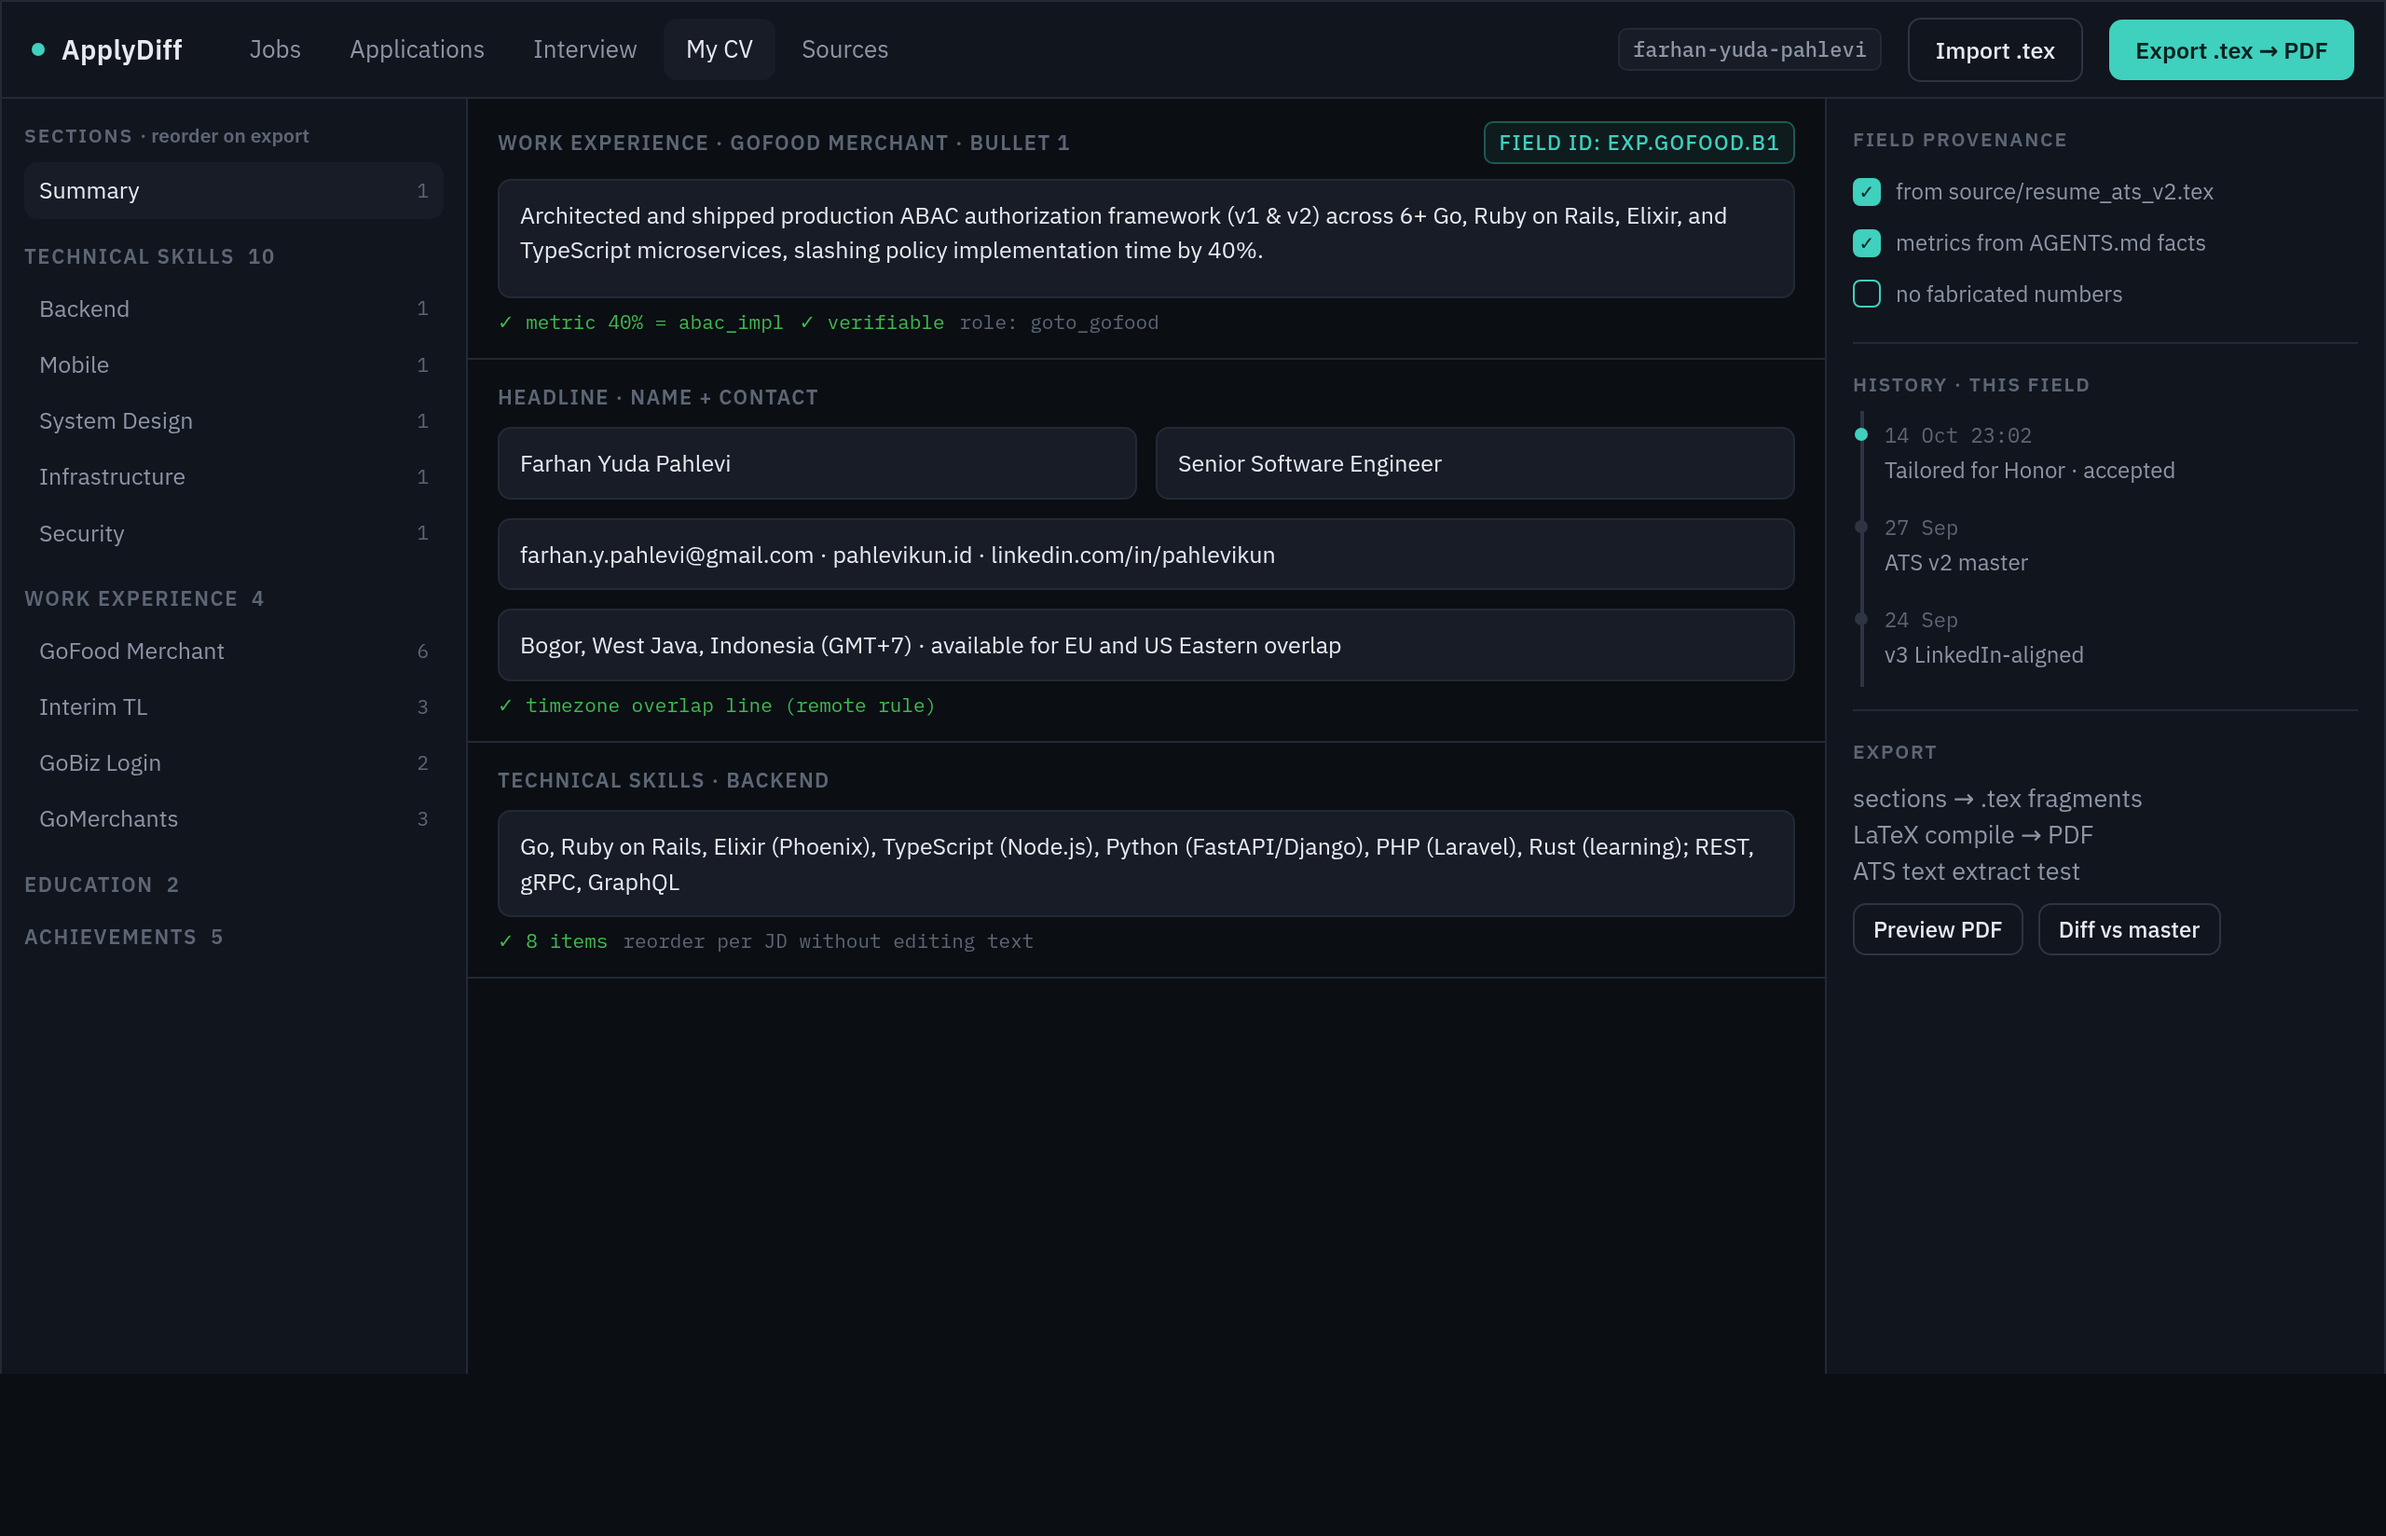
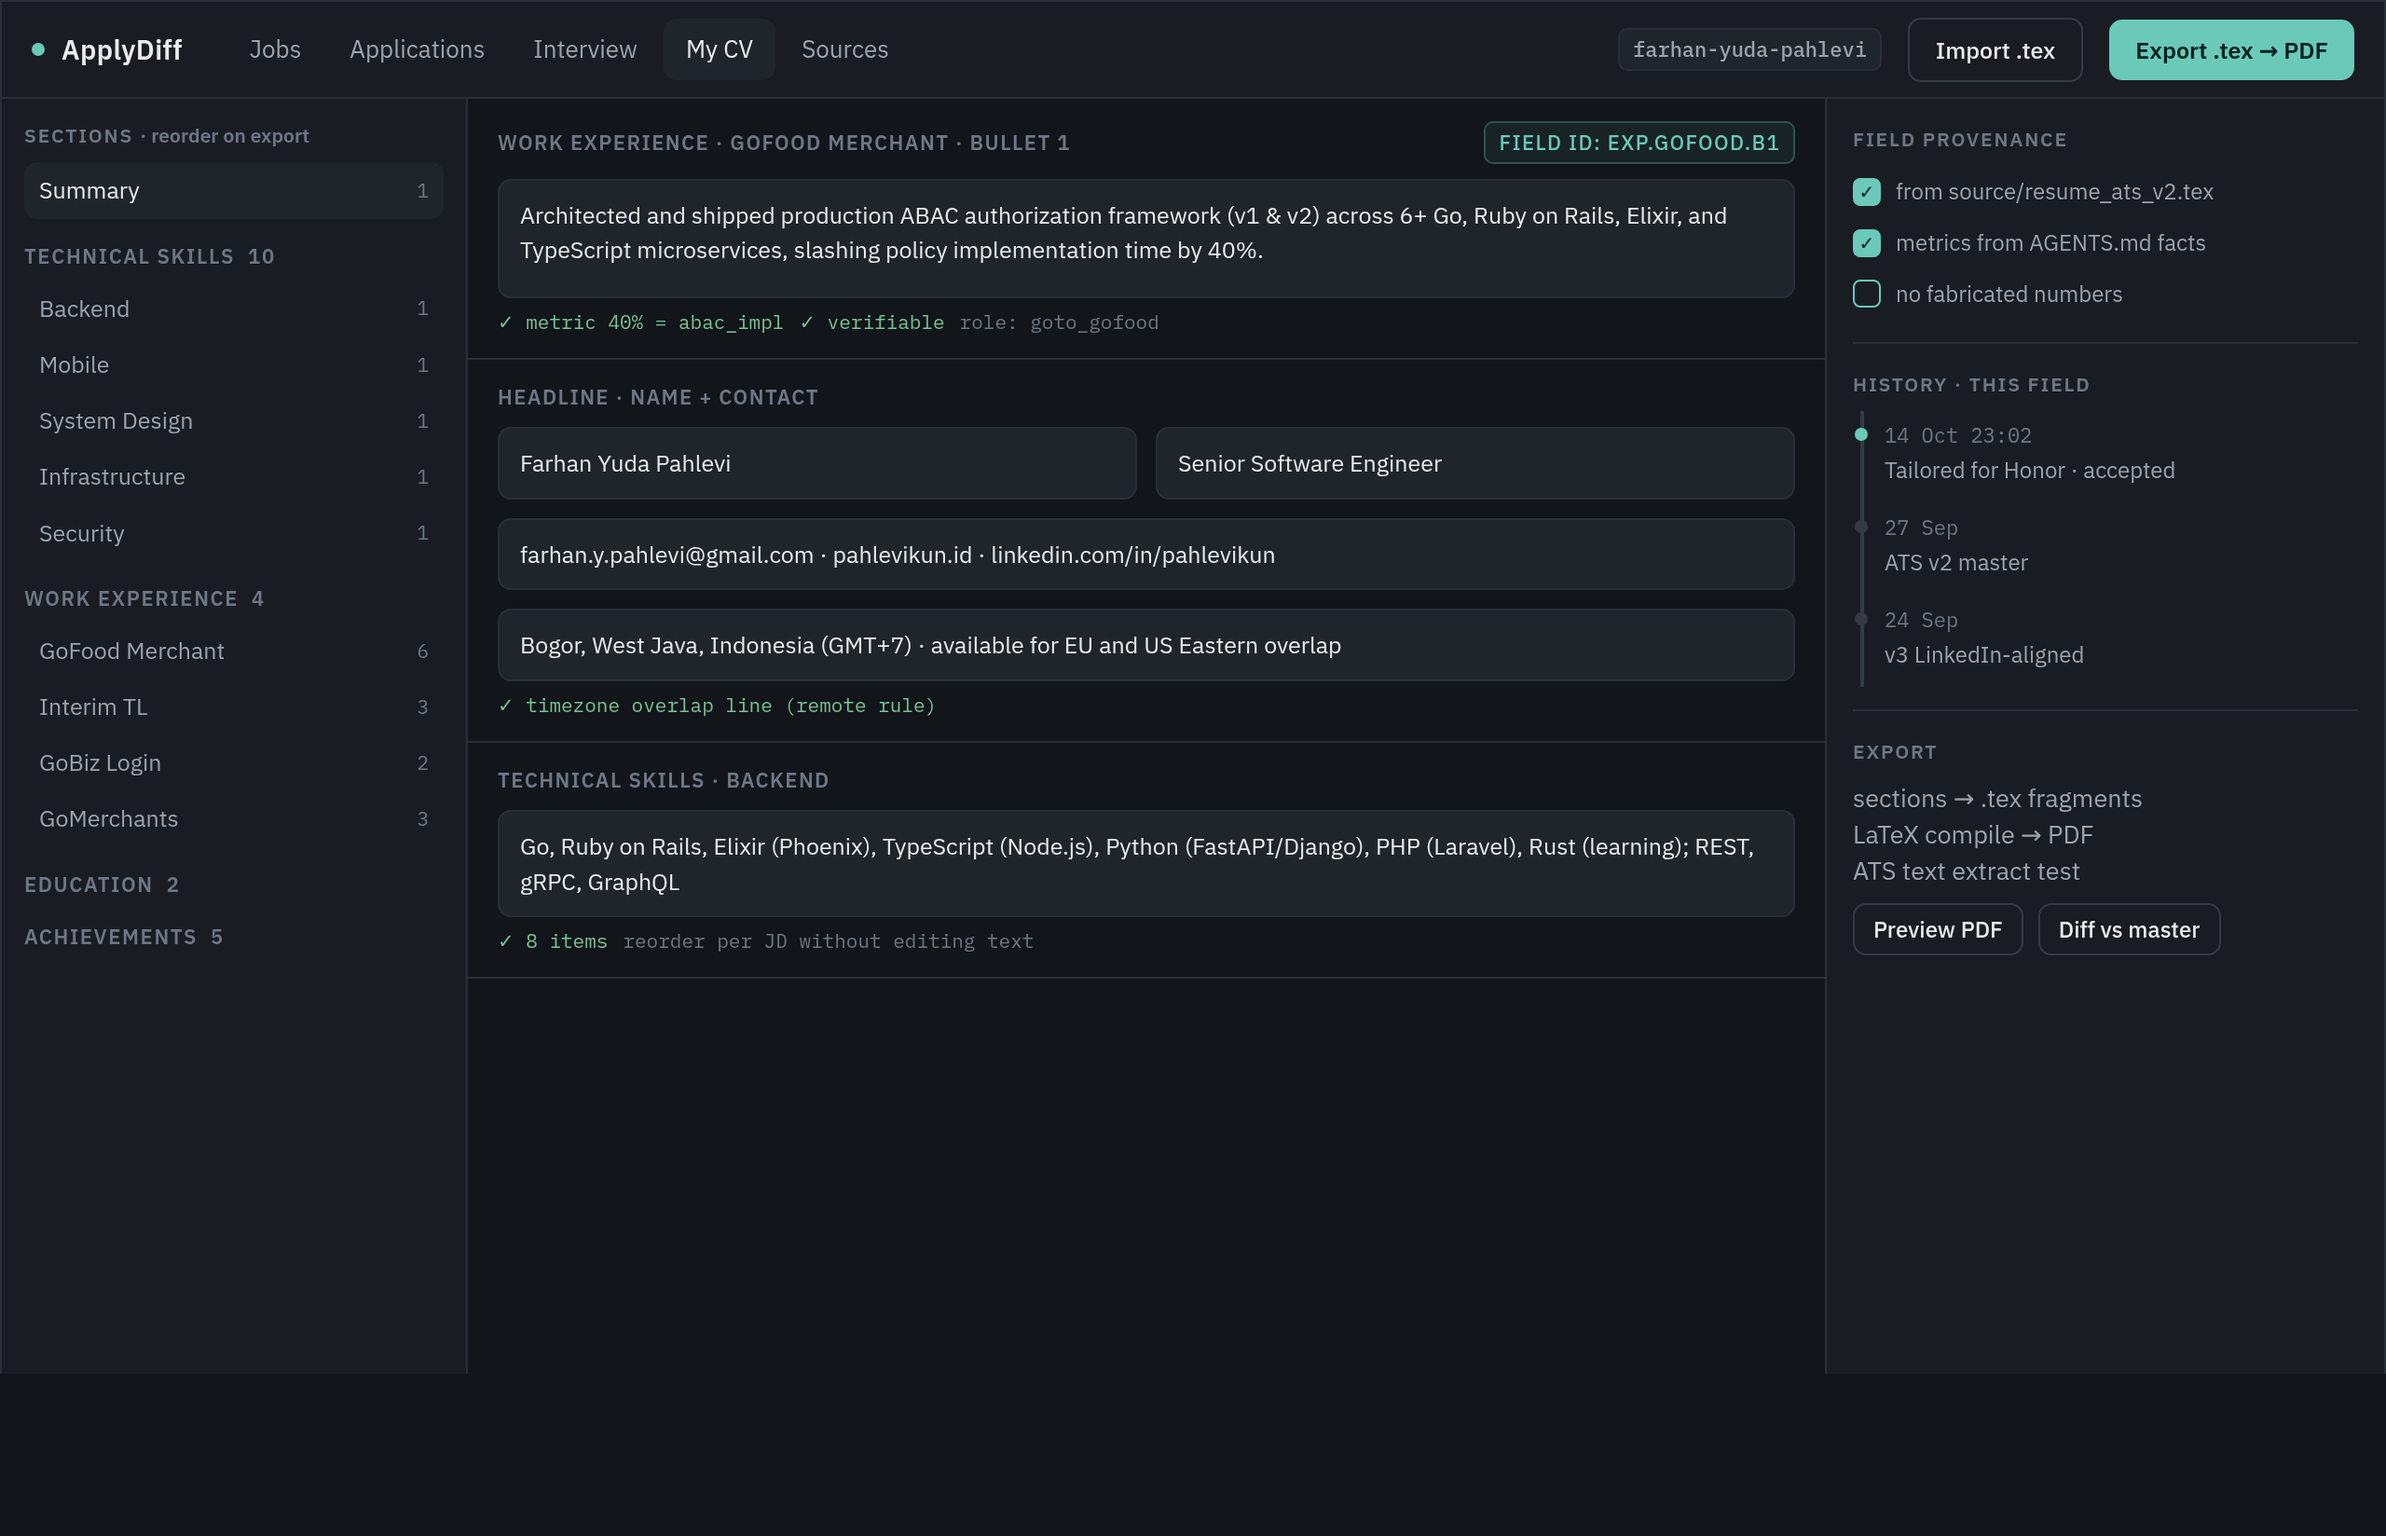
docs(wireframes): soften dark palette for calmer look

Changed region(s): [[0.875, 0.0, 1.0, 0.0619], [0.7812, 0.1238, 0.8125, 0.1547]]

diff --git a/docs/wireframes/theme.css b/docs/wireframes/theme.css
@@ -7,11 +7,11 @@
 @font-face{font-family:'Plex Mono';src:url('fonts/ibm-plex-mono-latin-600-normal.woff2') format('woff2');font-weight:600}
 
 :root{
-  --bg:#0b0e13; --surface:#11151d; --surface2:#171c26; --line:#232a36; --line2:#2d3542;
-  --fg:#e7eaf0; --muted:#8b95a5; --dim:#5c6675;
-  --accent:#3fd0be; --accent-dim:#1d5a53; --amber:#d9a441;
-  --add:#3fb950; --add-bg:#0e2a17; --add-gutter:#3fb95022;
-  --del:#f0553f; --del-bg:#2c1512; --del-gutter:#f0553f22;
+  --bg:#12151a; --surface:#191d23; --surface2:#20252c; --line:#2a2f37; --line2:#353b44;
+  --fg:#e9eaed; --muted:#9ba3ae; --dim:#6e7785;
+  --accent:#6bc9ba; --accent-dim:#2c554d; --amber:#d6ad6a;
+  --add:#79c392; --add-bg:#17261d; --add-gutter:#79c39222;
+  --del:#db8c7c; --del-bg:#2a1e1b; --del-gutter:#db8c7c22;
   --r:10px; --r-sm:7px;
 }
 *{box-sizing:border-box;margin:0;padding:0}
@@ -41,8 +41,8 @@ body{background:var(--bg);color:var(--fg);font-family:'Plex Sans',system-ui,sans
 .lbl{font-size:10.5px;text-transform:uppercase;letter-spacing:.9px;color:var(--dim);font-weight:600;margin:14px 0 7px}
 .lbl:first-child{margin-top:0}
 .chip{display:inline-flex;align-items:center;gap:5px;font-size:11px;padding:2.5px 7px;border-radius:5px;background:var(--surface2);border:1px solid var(--line);color:var(--muted);font-weight:500}
-.chip.acc{color:var(--accent);border-color:var(--accent-dim);background:#3fd0be12}
-.chip.amb{color:var(--amber);border-color:#5a4416;background:#d9a44112}
+.chip.acc{color:var(--accent);border-color:var(--accent-dim);background:#6bc9ba14}
+.chip.amb{color:var(--amber);border-color:#57441f;background:#d6ad6a14}
 .dot{width:7px;height:7px;border-radius:50%;background:var(--accent);display:inline-block}
 .hr{height:1px;background:var(--line);margin:12px 0}
 .muted{color:var(--muted)}.dim{color:var(--dim)}.acc{color:var(--accent)}.amb{color:var(--amber)}
@@ -53,7 +53,7 @@ body{background:var(--bg);color:var(--fg);font-family:'Plex Sans',system-ui,sans
 @font-face{font-family:'Plex Serif';src:url('fonts/ibm-plex-serif-latin-700-normal.woff2') format('woff2');font-weight:700}
 :root{--paper:#fbfaf7;--ink:#1c1f25;--ink-mut:#606772;--ink-dim:#8d929b;--paper-line:#e6e3db}
 
-.sheetwrap{flex:1;min-height:0;overflow:hidden;background:#0a0d11;display:flex;justify-content:center;position:relative}
+.sheetwrap{flex:1;min-height:0;overflow:hidden;background:#101317;display:flex;justify-content:center;position:relative}
 .sheetwrap:before{content:"";position:absolute;inset:0;background:radial-gradient(120% 60% at 50% 0%,#ffffff08,transparent 60%)}
 .sheet{width:840px;background:var(--paper);color:var(--ink);margin:16px 0 0;box-shadow:0 24px 70px #000a,0 0 0 1px #ffffff12;position:relative;z-index:1}
 .pad{padding:34px 56px 60px}
@@ -74,16 +74,16 @@ ul.dots li{font-family:'Plex Serif';font-size:12.5px;line-height:1.55;color:#2b2
 /* changes: inline marks, no boxes */
 .chg{position:relative}
 .chg>.mk{position:absolute;left:-26px;top:2px;font-family:'Plex Mono';font-size:10px;font-weight:700;width:12px;text-align:center}
-.chg.add>.mk{color:#1f9d55}.chg.del>.mk{color:#d64545}
+.chg.add>.mk{color:#57a97b}.chg.del>.mk{color:#c67b6d}
 .chg:before{content:"";position:absolute;left:-8px;top:1px;bottom:1px;width:2px;border-radius:2px}
-.chg.add:before{background:#3fd0be88}.chg.del:before{background:#f0553f88}
-ins{background:#3fd0be1f;border-bottom:1px solid #8fcec5;text-decoration:none;padding:0 1px;border-radius:2px}
-del{color:#b93b2c;background:#f0553f12;text-decoration:line-through;padding:0 1px;border-radius:2px}
+.chg.add:before{background:#6bc9ba88}.chg.del:before{background:#db8c7c88}
+ins{background:#6bc9ba20;border-bottom:1px solid #a0d5cb;text-decoration:none;padding:0 1px;border-radius:2px}
+del{color:#b36d5f;background:#db8c7c14;text-decoration:line-through;padding:0 1px;border-radius:2px}
 .ctl{display:inline-flex;gap:3px;margin-left:7px;vertical-align:1px}
 .ctl button{border:1px solid #d8d4ca;background:#fff;border-radius:5px;font-size:10.5px;line-height:1;padding:2.5px 6px;cursor:pointer;color:#6a7080;font-family:'Plex Sans'}
-.ctl .ok{color:#1f9d55;border-color:#b6dcc0}
-.ctl .no{color:#d64545;border-color:#eec7c1}
-.ats{font-family:'Plex Sans';font-size:9.5px;font-weight:600;color:#8a6d1f;background:#f0e6c8;border-radius:4px;padding:1.5px 6px;margin-left:6px;vertical-align:1px}
+.ctl .ok{color:#57a97b;border-color:#bcdcc5}
+.ctl .no{color:#c67b6d;border-color:#eecbc4}
+.ats{font-family:'Plex Sans';font-size:9.5px;font-weight:600;color:#8f7430;background:#f1e7cb;border-radius:4px;padding:1.5px 6px;margin-left:6px;vertical-align:1px}
 .accepted{opacity:.5}
 .accepted .ctl{display:none}
 
